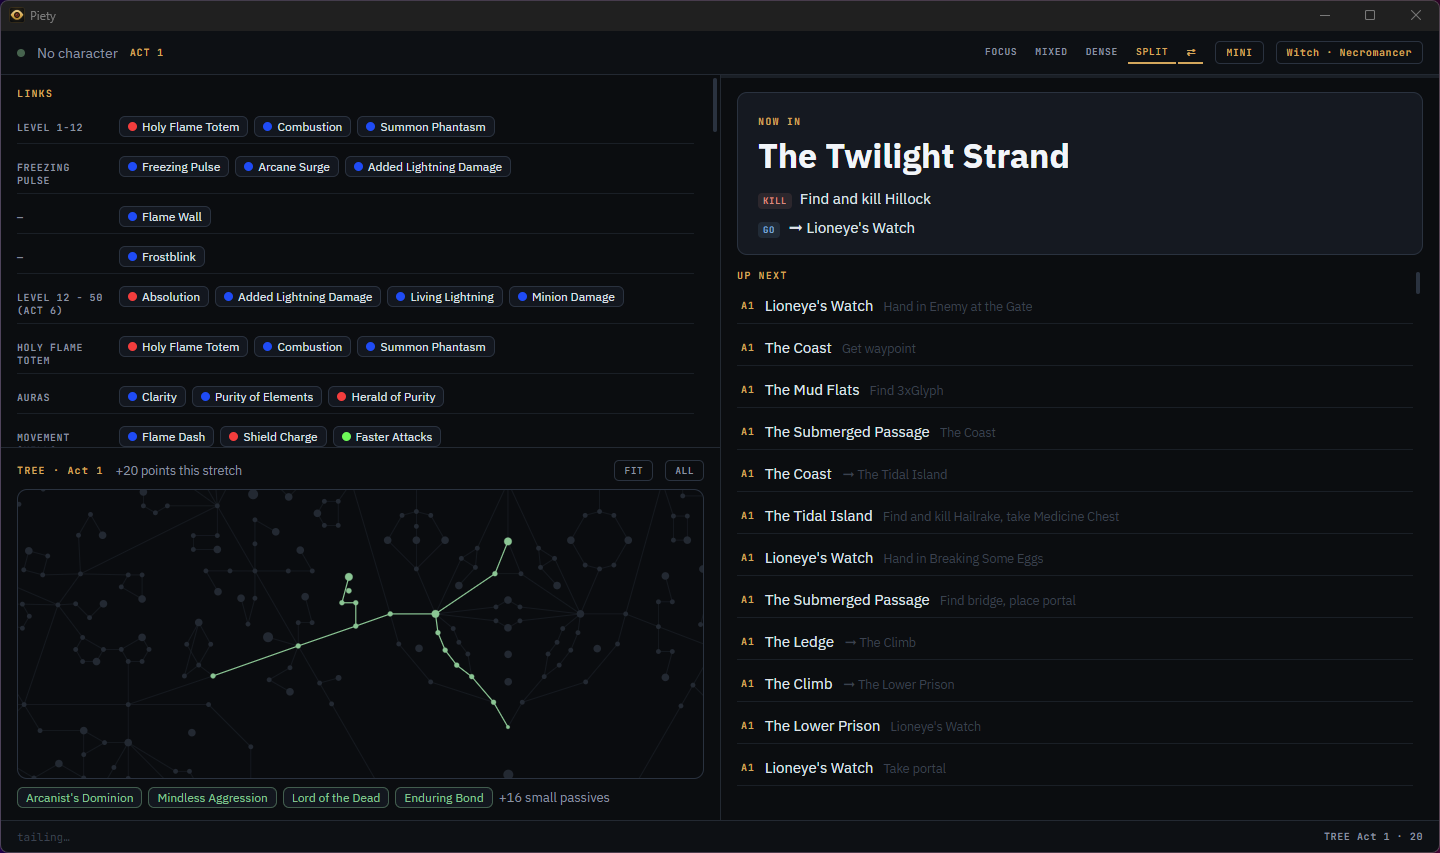
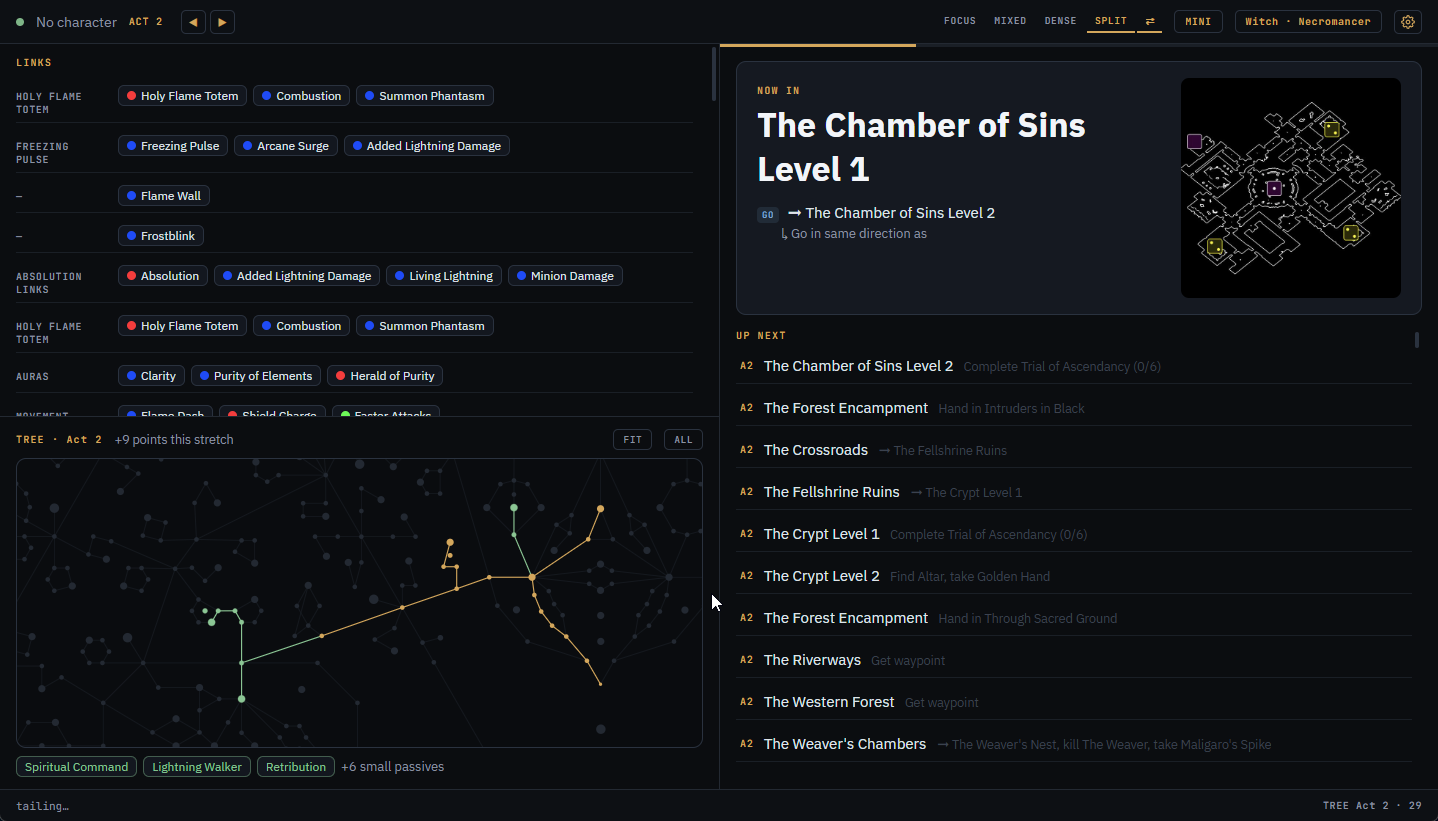
Add overlay screenshot, refresh README intro, add dependabot config

diff --git a/README.md b/README.md
@@ -2,9 +2,11 @@
 
 Piety is a desktop companion for leveling through the Path of Exile campaign. It reads your `Client.txt` log to follow you zone by zone, shows the next steps from a proven leveling route, tells you which gems to buy and when, tracks your passive tree progression against your Path of Building specs, and times your act splits against your personal best.
 
-It is built for a second monitor. Not an in-game overlay, just a normal window you can snap wherever you want, plus an optional small always-on-top window for single monitor setups.
+The main window is built for a second monitor: a normal window you can snap wherever you want. For single monitor setups there is a compact overlay, a small always-on-top window that sits over the game without hooking into it.
 
 ![Piety main window](assets/screenshot.png)
+
+![Piety companion window](assets/screenshot-2.png)
 
 ## Features
 
